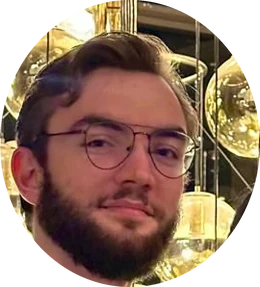
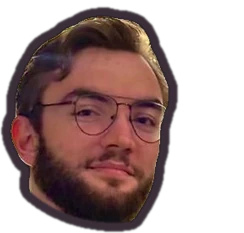
Cut faces out with transparent backgrounds so only heads sit on the doodle bodies
Claude-Session: https://claude.ai/code/session_01PAEqFaGGatY23GmokTMZKB

diff --git a/anniversary/script.js b/anniversary/script.js
@@ -33,8 +33,9 @@
       ${back}
       <path class="arm l nofill" d="M24 78 q-14 8 -12 22"/>
       <path class="arm r nofill" d="M96 78 q14 8 12 22"/>
-      <path fill="${c.color}" d="M60 18 C92 18 102 50 100 82 C98 112 84 124 60 124 C36 124 22 112 20 82 C18 50 28 18 60 18Z"/>
-      ${c.face ? `<image href="${esc(c.face)}" x="22" y="8" width="76" height="84" preserveAspectRatio="xMidYMid slice"/><ellipse class="nofill" cx="60" cy="50" rx="38" ry="42"/>${c.bow ? extras : ""}` : `${front}
+      ${c.face ? `<path fill="${c.color}" d="M28 82 C22 102 34 124 60 124 C86 124 98 102 92 82 C82 90 38 90 28 82Z"/>`
+        : `<path fill="${c.color}" d="M60 18 C92 18 102 50 100 82 C98 112 84 124 60 124 C36 124 22 112 20 82 C18 50 28 18 60 18Z"/>`}
+      ${c.face ? `<image href="${esc(c.face)}" x="14" y="4" width="92" height="88" preserveAspectRatio="xMidYMax meet"/>${c.bow ? extras : ""}` : `${front}
       <circle class="eye ink" cx="46" cy="62" r="4"/><circle class="eye ink" cx="74" cy="62" r="4"/>
       <ellipse class="blush" cx="35" cy="76" rx="7" ry="4.5"/><ellipse class="blush" cx="85" cy="76" rx="7" ry="4.5"/>
       <path class="nofill" d="M52 77 q8 8 16 0"/>

diff --git a/anniversary/content.js b/anniversary/content.js
@@ -13,7 +13,7 @@ window.CONTENT = {
   startDate: "2025-12-01", // the day you became a couple, as YEAR-MONTH-DAY. CHANGE THIS to your real date.
 
   // The two doodle characters. "a" is you, "b" is him. Make them look like the two of you:
-  //   face:      a face photo cut-out (oval) shown instead of the drawn face, for example "photos/face-her.webp".
+  //   face:      a head cut-out with a see-through background, for example "photos/face-her.webp", shown instead of the drawn face.
   //              Remove the face line to go back to the drawn face and the hair, glasses and beard options below.
   //   color:     body colour
   //   hair:      "long", "short", "curly", "bun", "tuft" or "none"
